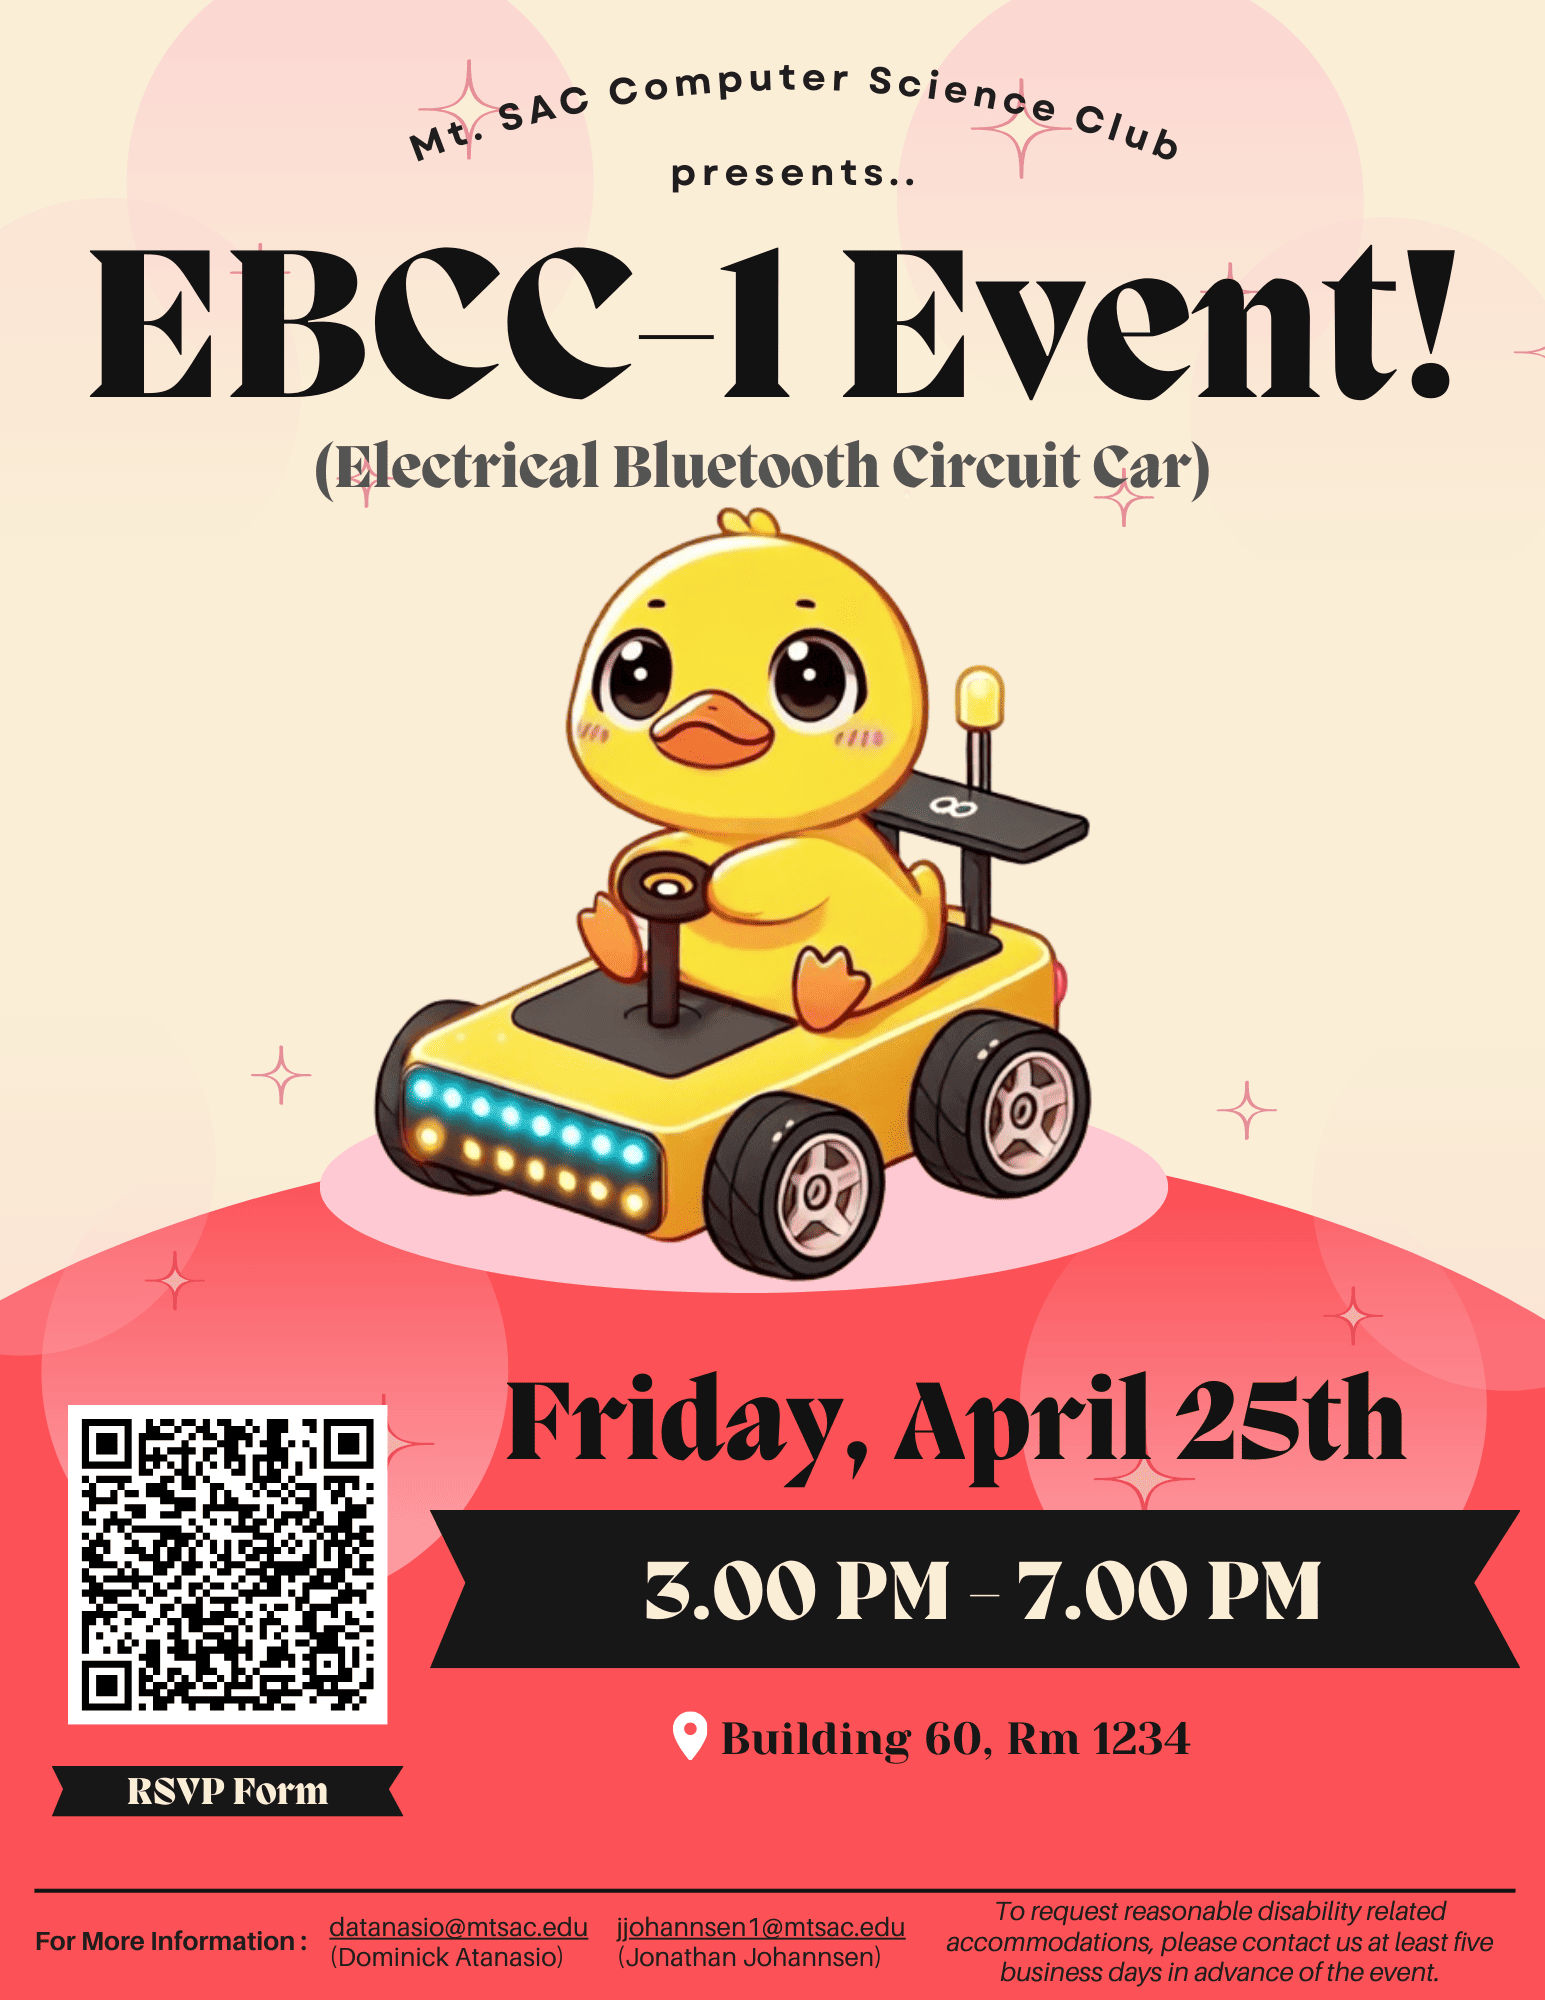
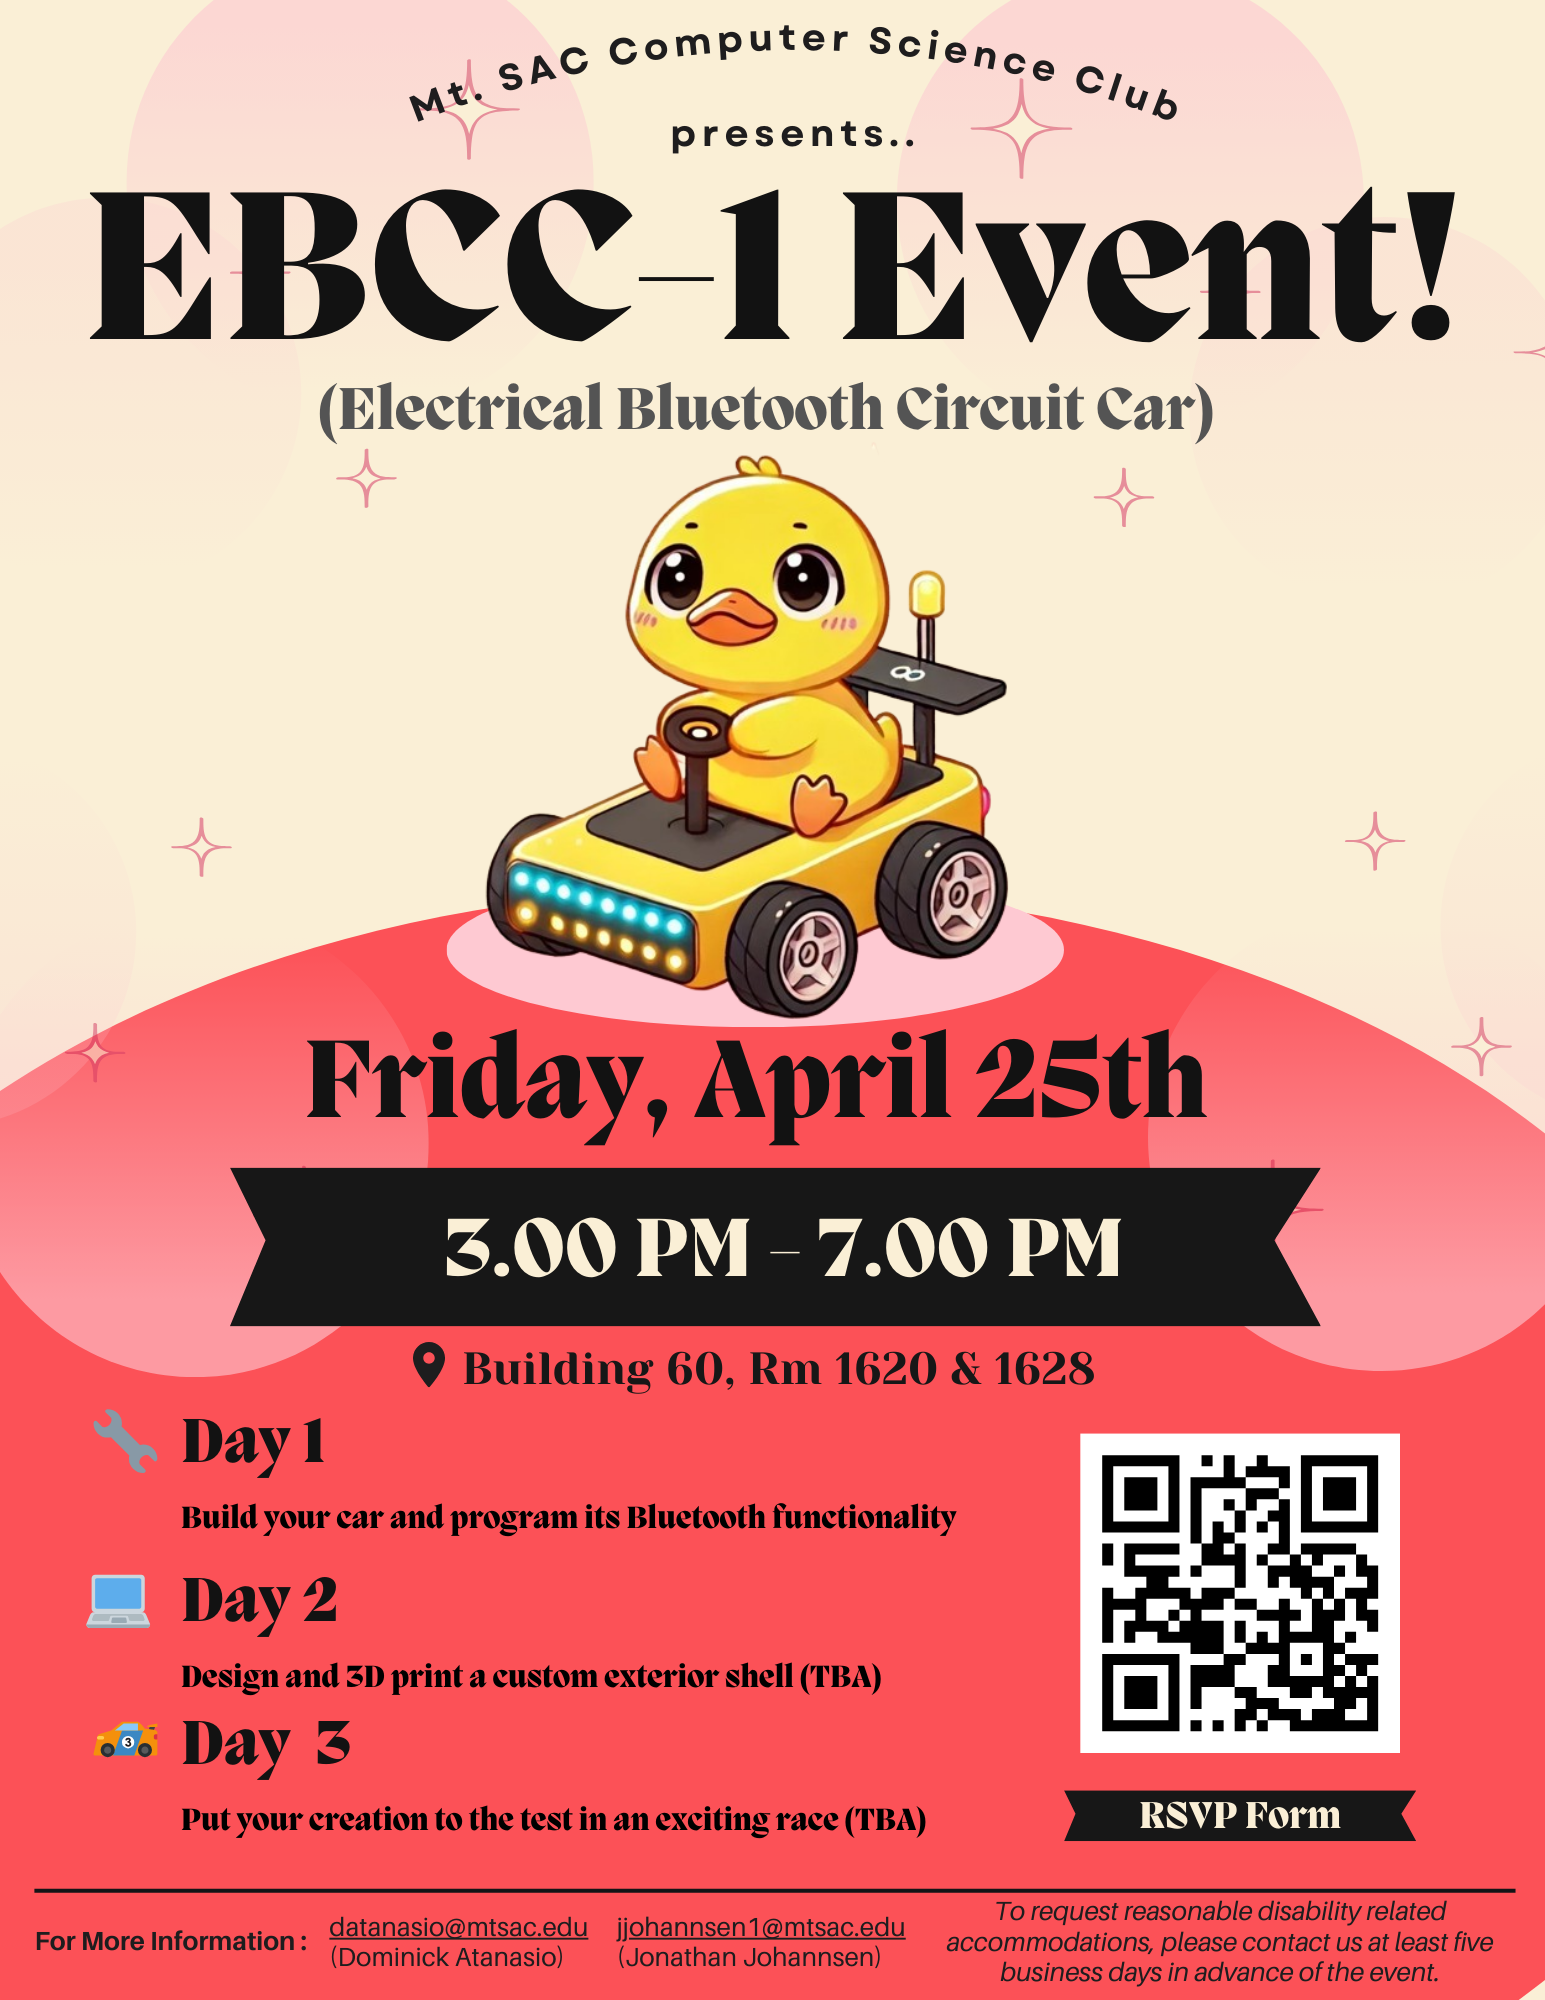
fixed van's event

diff --git a/src/components/EventPage.jsx b/src/components/EventPage.jsx
@@ -155,11 +155,29 @@ const EventPage = () => {
       title: (
         <span> Electrical Bluetooth Circuit Car <i>(EBCC-1)</i> Event</span>
       ),
-      date: 'April 25, 2025',
+      date: 'April 25 → TBA, 2025',
       time: '3:00 - 7:00 PM',
-      location: 'Building 60, Rm. TBA',
-      description: 'TBA! Check back soon for more details.',
-      registerLink : 'https://forms.gle/RRSre4LhTXs2kPH38',
+      location: 'Building 60, Rm. 1620 & 1628',
+      description: (
+        <ul>
+          <li>
+          ✅ How to assemble and program a Bluetooth-controlled car
+          </li>
+          <li>
+          ✅ The fundamentals of circuit components and hardware integration
+          </li>
+          <li>
+          ✅ 3D modeling and printing a custom car shell
+          </li>
+          <li>
+          ✅ Real-world applications of programming and electrical engineering
+          </li>
+          <li>
+          ✅ Team collaboration and problem-solving in a fun, interactive environment
+          </li>
+        </ul>
+      ),
+      registerLink : 'https://lu.ma/i7g6h088',
       imagesrc: '/static/events/cs ebcc event.png',
       organizer: 'Computer Science Club',
       signup: 'Fill out the registration BEFORE Thursday, April 24 11:59PM'
